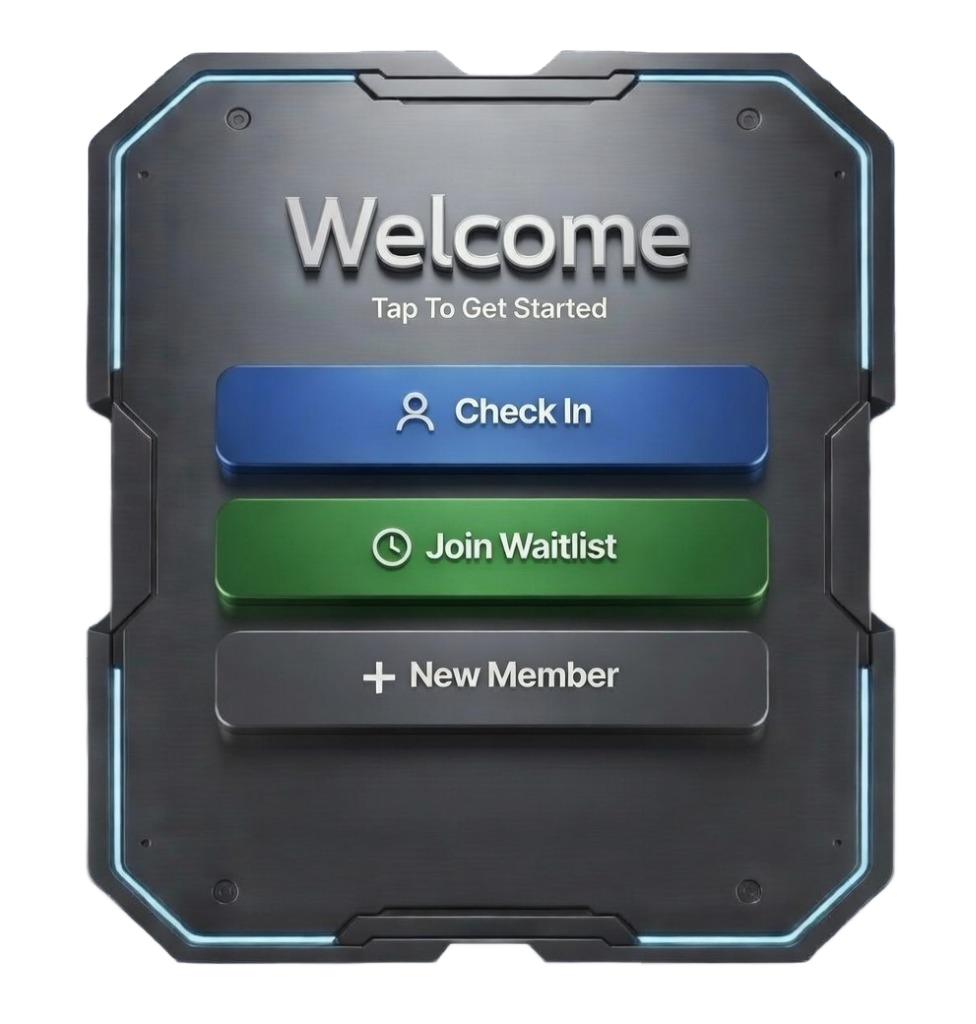
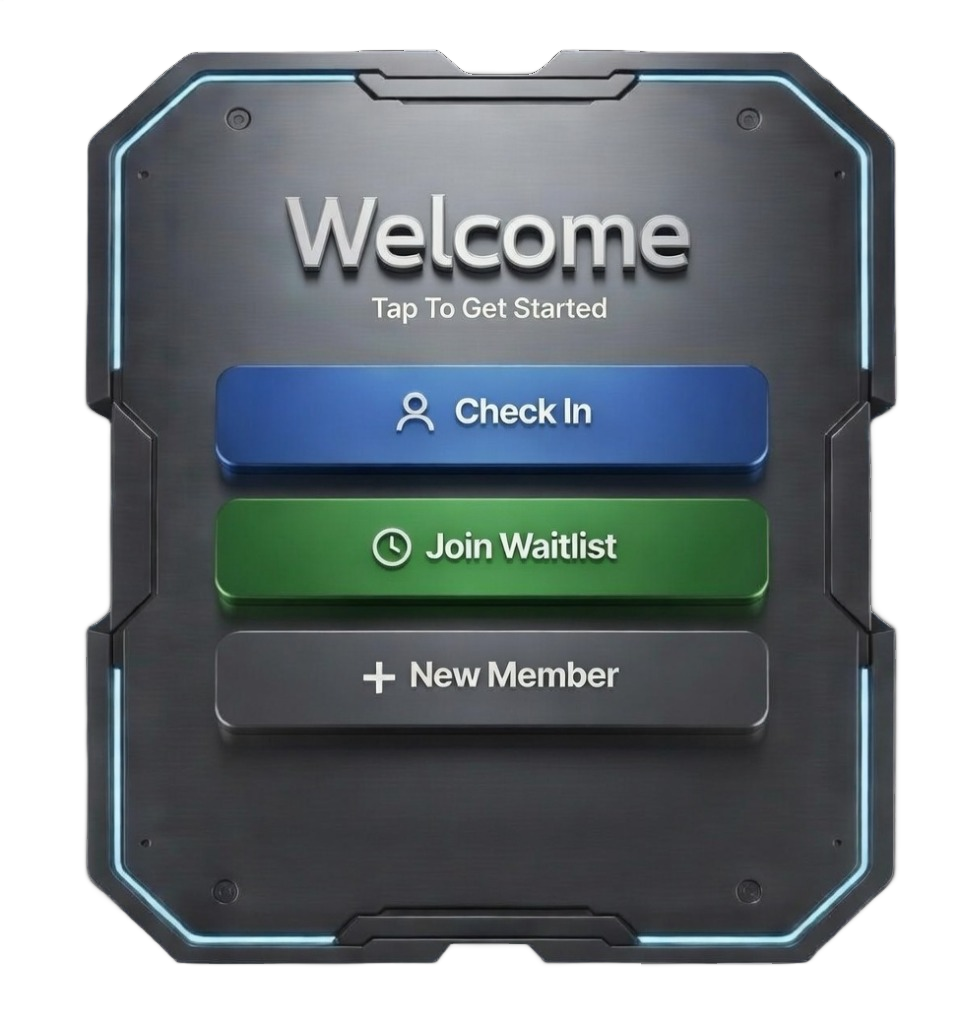
fix: final 255 alpha floor protection to allow perfect extreme edge darkening and eliminate all white background fringe

diff --git a/pages/commander/kiosk.js b/pages/commander/kiosk.js
@@ -441,7 +441,7 @@ export default function MembershipKiosk() {
             <div style={{ position: 'relative', maxWidth: '90%', maxHeight: '90%', display: 'flex' }}>
               {/* Background Image — PNG with transparent background */}
               <img
-                src="/images/commander/kiosk-welcome.png?v=13"
+                src="/images/commander/kiosk-welcome.png?v=14"
                 alt="Welcome Kiosk"
                 style={{
                   width: '100%',
